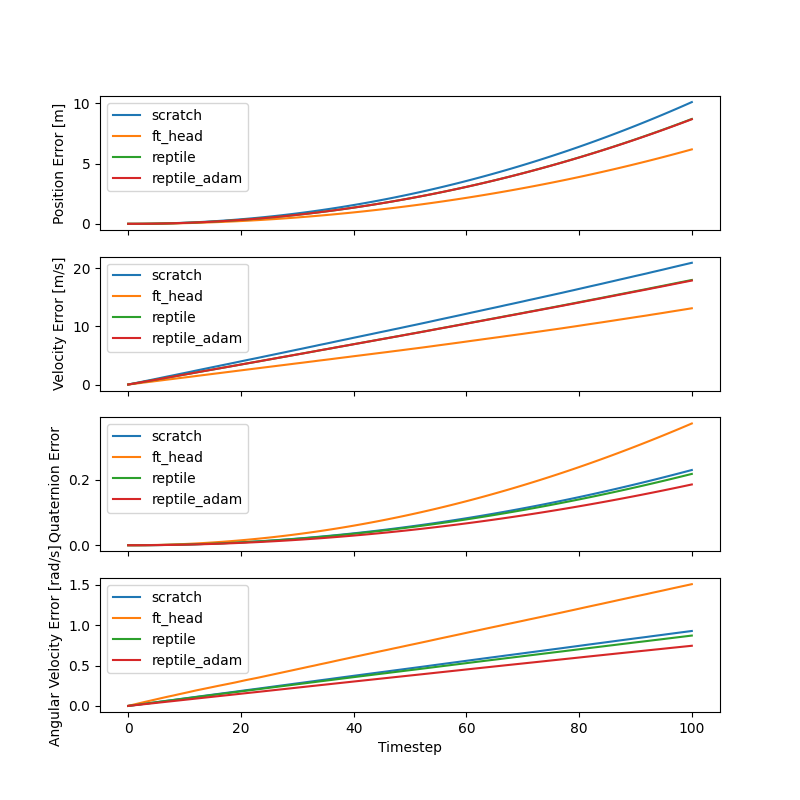
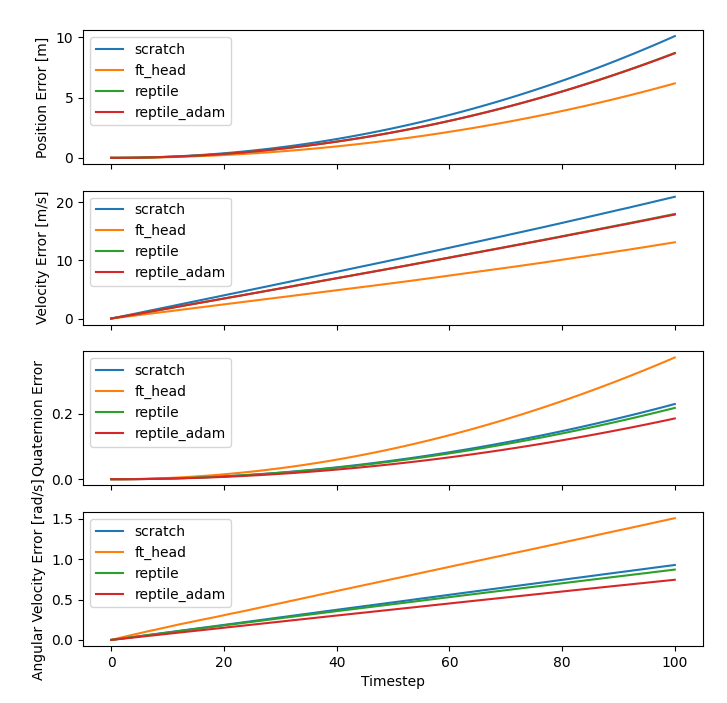
update plots

diff --git a/simulator.py b/simulator.py
@@ -269,13 +269,14 @@ def plot_errors(gt_trajectory, trajectories):
 
     axs[0].set_ylabel('Position Error [m]')
     axs[1].set_ylabel('Velocity Error [m/s]')
-    axs[2].set_ylabel('Quaternion Error')
-    axs[3].set_ylabel('Angular Velocity Error [rad/s]')
+    axs[2].set_ylabel('Quaternion Error [-]')
+    axs[3].set_ylabel('Ang. Velocity Error [rad/s]')
     axs[3].set_xlabel('Timestep')
     axs[0].legend()
     axs[1].legend()
     axs[2].legend()
     axs[3].legend()
+    plt.tight_layout()
     plt.savefig('figures/trajectory_errors.png')
 
 
